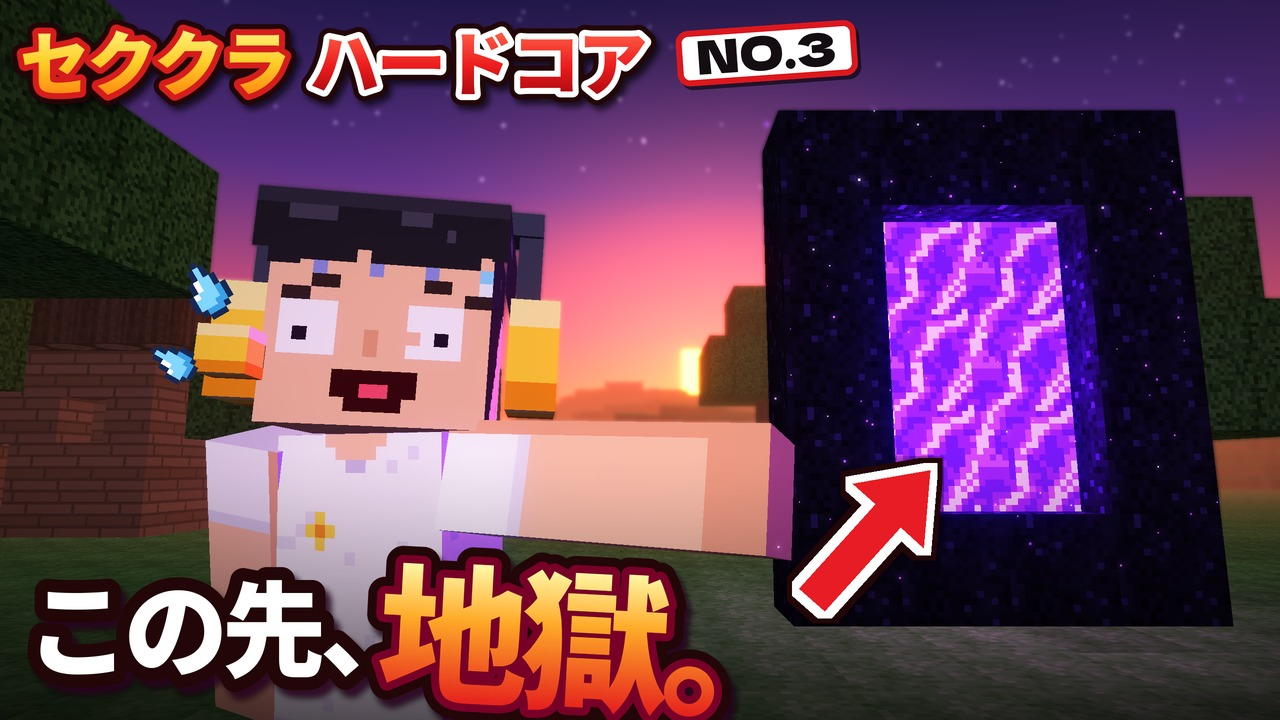
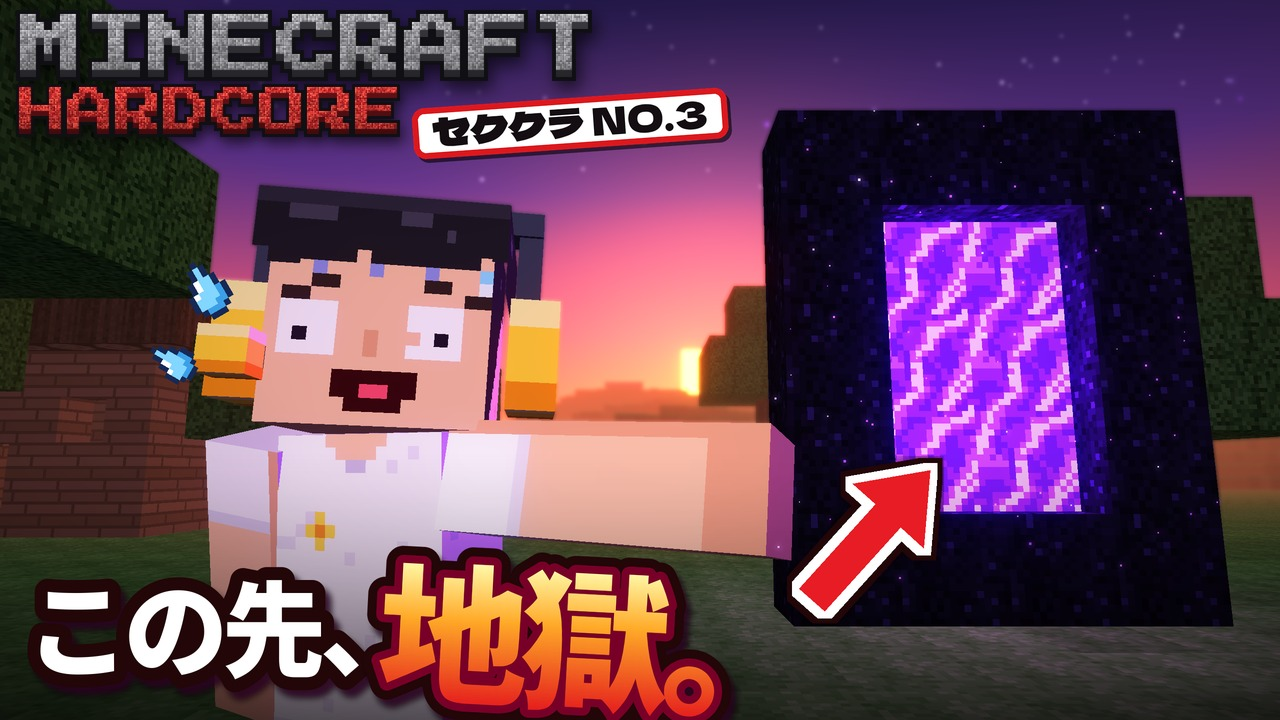
NO.3 のサムネイル左上に英字タイトル「MINECRAFT HARDCORE」を追加
ドットフォントの1ドットを石ブロック1個にして組んだ立体文字（HARDCORE は赤い石）を
左上に置き、シリーズ名と番号は「セククラ NO.3」のバッジにまとめた。

Claude-Session: https://claude.ai/code/session_01ARLGywnTjgvutUHsht7TWK

Changed region(s): [[0.0, 0.0, 0.6875, 0.2444]]

diff --git a/sekunuyu-thumbnail/lib/overlay.py b/sekunuyu-thumbnail/lib/overlay.py
@@ -216,3 +216,68 @@ def arrow(c: Image.Image, start, end, width: int, head_len: int, head_w: int, fi
     layer.paste(Image.new("RGBA", mask.size, stroke), (0, 0), white)
     layer.paste(Image.new("RGBA", mask.size, fill), (0, 0), mask)
     c.alpha_composite(layer, (max(0, x0), max(0, y0)), (max(0, -x0), max(0, -y0)))
+
+
+STONE = [(118, 118, 122), (134, 134, 138), (150, 150, 154), (168, 168, 172)]
+RED_STONE = [(150, 26, 30), (176, 36, 38), (204, 52, 48), (228, 78, 64)]
+
+
+def block_title(c: Image.Image, xy, text: str, font_path: str, cell: int, colors=STONE, extrude: int = 0,
+                outline_w: int = 0, side=(52, 52, 58), outline=(16, 16, 20, 255), seed: int = 0) -> tuple:
+    """ドット1つを石ブロック1個にして組んだ英字（マイクラ風の立体タイトル）。xy は左上。戻り値は描いた範囲。"""
+    from scipy import ndimage as ndi
+    f = ImageFont.truetype(font_path, 8)
+    bb = f.getbbox(text)
+    im = Image.new("L", (bb[2] - bb[0] + 4, bb[3] - bb[1] + 4), 0)
+    d = ImageDraw.Draw(im)
+    d.fontmode = "1"
+    d.text((2 - bb[0], 2 - bb[1]), text, font=f, fill=255)
+    bm = np.asarray(im) > 0
+    ys, xs = np.nonzero(bm)
+    bm = bm[ys.min():ys.max() + 1, xs.min():xs.max() + 1]
+    h, w = bm.shape
+    rng = np.random.default_rng(seed)
+    # 石の模様（ブロックごとに少し明るさを変えて、細かいつぶつぶを入れる）
+    sub = max(2, cell // 4)
+    speck = rng.random((h * cell // sub + 1, w * cell // sub + 1)).repeat(sub, 0).repeat(sub, 1)[:h * cell, :w * cell]
+    pal = np.array(colors, float)
+    face = pal[np.clip((speck * len(pal)).astype(int), 0, len(pal) - 1)]
+    face *= (0.9 + 0.2 * rng.random((h, w))).repeat(cell, 0).repeat(cell, 1)[..., None]
+    # ブロックのふち（上と左は明るく、下と右は暗く）
+    yy, xx = np.mgrid[0:h * cell, 0:w * cell]
+    by, bx = yy % cell, xx % cell
+    bev = max(1, cell // 6)
+    face = np.where(((by < bev) | (bx < bev))[..., None], np.minimum(face * 1.1 + 8, 255), face)
+    face = np.where(((by >= cell - bev) | (bx >= cell - bev))[..., None], face * 0.84, face)
+    face *= np.linspace(1.12, 0.86, h * cell)[:, None, None]   # 上が明るい
+    face = np.clip(face, 0, 255)
+    on = bm.repeat(cell, 0).repeat(cell, 1)
+    E, O = extrude, outline_w
+    Hc, Wc = h * cell + E + 2 * O, w * cell + 2 * O
+    sil = np.zeros((Hc, Wc), bool)
+    sil[O:O + h * cell, O:O + w * cell] = on
+    ext = sil.copy()
+    for k in range(1, E + 1):  # 下に厚みを出す
+        ext[k:] |= sil[:-k]
+    outl = ndi.binary_dilation(ext, structure=np.ones((3, 3), bool), iterations=O) if O else ext
+    arr = np.zeros((Hc, Wc, 4), np.uint8)
+    arr[outl] = outline
+    sidek = np.linspace(1.15, 0.7, Hc)[:, None, None]
+    side_rgb = np.clip(np.array(side, float)[None, None, :] * sidek, 0, 255)
+    side_mask = ext & ~sil
+    arr[..., :3][side_mask] = np.broadcast_to(side_rgb, (Hc, Wc, 3))[side_mask].astype(np.uint8)
+    arr[..., 3][side_mask] = 255
+    fm = np.zeros((Hc, Wc, 3), float)
+    fm[O:O + h * cell, O:O + w * cell] = face
+    arr[..., :3][sil] = fm[sil].astype(np.uint8)
+    arr[..., 3][sil] = 255
+    layer = Image.fromarray(arr, "RGBA")
+    # やわらかい影
+    m = 4 * max(1, O)
+    sh = Image.new("RGBA", (Wc + 2 * m, Hc + 2 * m), (0, 0, 0, 0))
+    sh.paste(Image.new("RGBA", (Wc, Hc), (0, 0, 0, 160)), (m, m), Image.fromarray((outl * 255).astype(np.uint8)))
+    sh = sh.filter(ImageFilter.GaussianBlur(m / 2))
+    x, y = int(xy[0]), int(xy[1])
+    c.alpha_composite(sh, (max(0, x - m + O), max(0, y - m + 2 * O)))
+    c.alpha_composite(layer, (x, y))
+    return (x, y, x + Wc, y + Hc)

diff --git a/sekunuyu-thumbnail/episodes/ep03_portal.py b/sekunuyu-thumbnail/episodes/ep03_portal.py
@@ -187,16 +187,16 @@ def portal_particles(img, cam: Camera, ss: int, seed=11):
 # ---------------------------------------------------------------- 文字入れ
 
 TEXT = {
-    "series1": "セククラ",
-    "series2": "ハードコア",
-    "badge": "NO.3",
+    "title1": "MINECRAFT",
+    "title2": "HARDCORE",
+    "badge": "セククラ NO.3",
     "hook1": "この先、",
     "hook2": "地獄。",
 }
 
 
 def compose(art: Image.Image, S: int) -> Image.Image:
-    """クリックされやすさ重視：シリーズ名は小さく左上、フック（この先、地獄。）を大きく。"""
+    """クリックされやすさ重視：左上に英字タイトル、フック（この先、地獄。）を大きく。"""
     c = art.convert("RGBA")
     dark = ov.DARK
     # 下の方を少し暗くして、大きい文字を読みやすく
@@ -205,16 +205,11 @@ def compose(art: Image.Image, S: int) -> Image.Image:
     band = np.zeros((h, c.width, 4), np.uint8)
     band[..., 3] = grad.astype(np.uint8)[:, None]
     c.alpha_composite(Image.fromarray(band, "RGBA"))
-    # シリーズ名（小さめ）＋番号
-    shadow = (4 * S, 5 * S, (0, 0, 0, 170), 3 * S)
-    f = ov.font(fonts.BLACK, 70 * S)
-    b1 = ov.fx_text(c, (20 * S, 8 * S), TEXT["series1"], f,
-                    [(0, (255, 240, 120)), (0.5, (255, 206, 40)), (1, (255, 138, 18))],
-                    strokes=[(11 * S, dark), (6 * S, (214, 28, 28, 255))], shadow=shadow, spacing=-3 * S)
-    b2 = ov.fx_text(c, (b1[2] + 2 * S, 8 * S), TEXT["series2"], f,
-                    [(0, (255, 92, 70)), (0.55, (236, 28, 30)), (1, (176, 10, 16))],
-                    strokes=[(11 * S, dark), (6 * S, (255, 255, 255, 255))], shadow=shadow, spacing=-3 * S)
-    ov.badge(c, (b2[2] + 6 * S, 18 * S), TEXT["badge"], ov.font(fonts.DELA, 46 * S), pad=(14 * S, 4 * S),
+    # 左上：石ブロックで組んだ英字タイトル＋シリーズ名と番号
+    b1 = ov.block_title(c, (16 * S, 10 * S), TEXT["title1"], fonts.PIXEL, 8 * S, extrude=7 * S, outline_w=4 * S)
+    b2 = ov.block_title(c, (16 * S, b1[3] + 3 * S), TEXT["title2"], fonts.PIXEL, 6 * S, colors=ov.RED_STONE,
+                        extrude=5 * S, outline_w=3 * S, side=(90, 16, 20), seed=3)
+    ov.badge(c, (b2[2] + 10 * S, b2[1] + 2 * S), TEXT["badge"], ov.font(fonts.DELA, 38 * S), pad=(14 * S, 4 * S),
              border=6 * S, radius=12 * S, rotate=4)
     # フック（大きく）
     hb1 = ov.fx_text(c, (26 * S, 548 * S), TEXT["hook1"], ov.font(fonts.BLACK, 104 * S), (255, 255, 255, 255),

diff --git a/sekunuyu-thumbnail/lib/fonts.py b/sekunuyu-thumbnail/lib/fonts.py
@@ -10,10 +10,12 @@ FONT_DIR = os.path.join(os.path.dirname(os.path.dirname(os.path.abspath(__file__
 FONTS = {
     "NotoSansJP-Black.ttf": "Noto+Sans+JP:wght@900",
     "DelaGothicOne-Regular.ttf": "Dela+Gothic+One",
+    "PressStart2P-Regular.ttf": "Press+Start+2P",
 }
 
 BLACK = os.path.join(FONT_DIR, "NotoSansJP-Black.ttf")
 DELA = os.path.join(FONT_DIR, "DelaGothicOne-Regular.ttf")
+PIXEL = os.path.join(FONT_DIR, "PressStart2P-Regular.ttf")   # 英字のブロック文字の元にするドットフォント
 
 
 def ensure_fonts() -> None:
